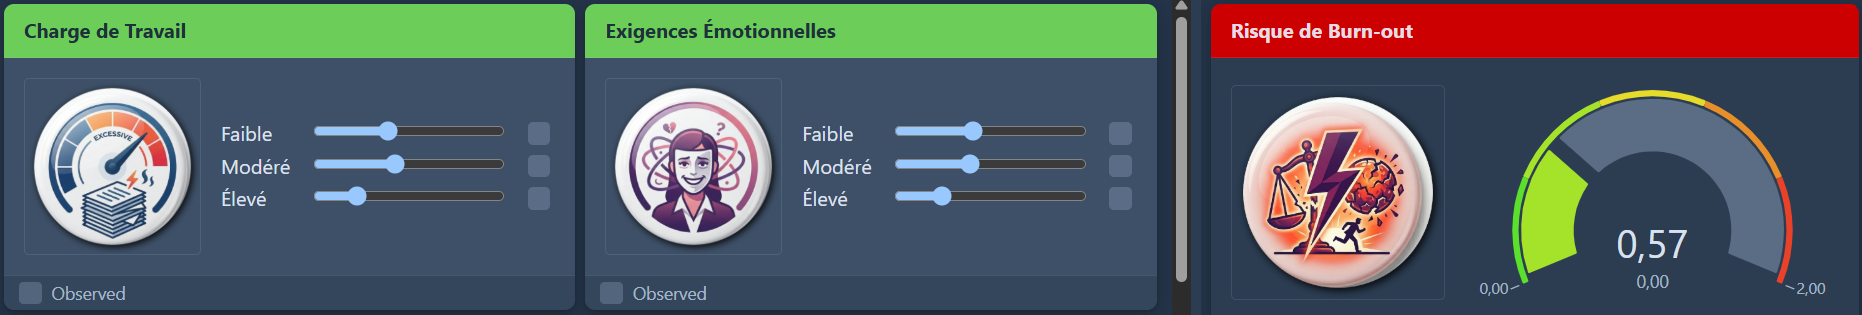
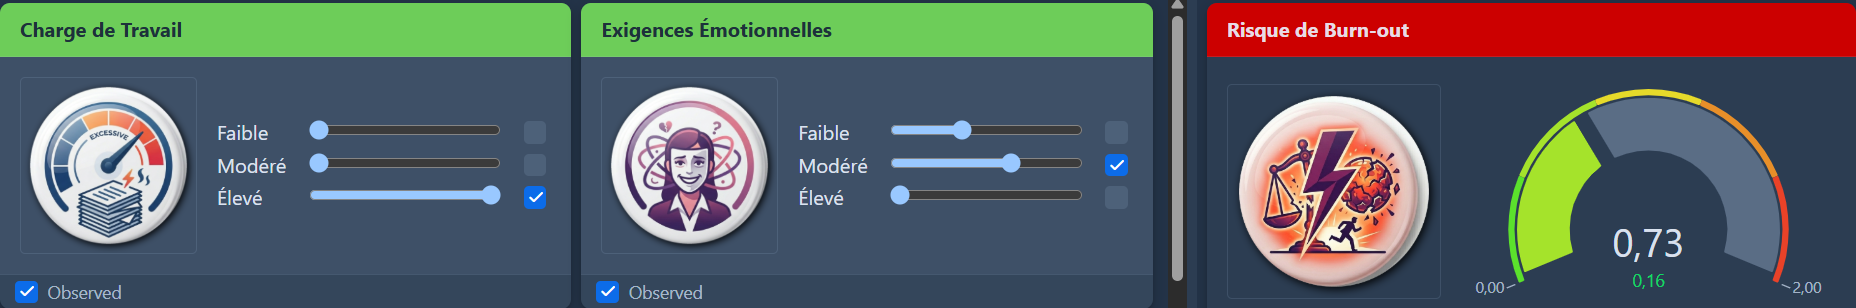
ws ref scen et méthode et footer

diff --git a/methode.html b/methode.html
@@ -100,11 +100,14 @@
       <p class="eyebrow">Méthode</p>
       <h2>Comment les modèles sont construits — et ce qu'on peut en attendre</h2>
       <p class="lede">
-        Un réseau bayésien est une représentation graphique des relations entre
-        variables&nbsp;: chaque nœud est un facteur, chaque flèche porte une
-        hypothèse d'influence et une intensité estimée. Cette page explique
-        comment ils sont construits, sur quoi ils reposent, et ce qu'ils
-        ne font pas.
+        Ce que vous observez au sein de votre organisation via vos indicateurs
+        et votre expérience résulte de l'interaction de nombreux facteurs.
+        Vos outils mesurent déjà certaines de ces variables plus ou moins indirectement,
+        mais la difficulté est de comprendre comment elles se combinent.
+        C'est ce qu'un réseau bayésien rend visible&nbsp;: chaque nœud est un
+        facteur, chaque flèche une hypothèse d'influence assortie d'une intensité
+        estimée. Cette page explique comment ces modèles sont construits, sur
+        quoi ils reposent, et ce qu'ils ne font pas.
       </p>
     </div>
   </section>
@@ -141,8 +144,7 @@
       <!--
         DAG pédagogique — redessiné en palette Noumensia à partir du modèle BayesiaLab.
         Structure identique au modèle d'origine (5 nœuds, 4 arêtes orientées).
-        À remplacer par un export BayesiaLab au besoin (même structure, autre rendu).
-      -->
+     -->
       <figure class="dag-fig" aria-label="Réseau bayésien pédagogique à 5 nœuds">
         <svg viewBox="0 0 580 135" xmlns="http://www.w3.org/2000/svg"
              style="width:100%;max-width:580px;display:block;margin:0 auto;height:auto"
@@ -155,7 +157,7 @@
             </marker>
           </defs>
 
-          <!-- Arêtes — dessinées avant les nœuds -->
+          <!-- Arêtes -->
           <!-- Charge de travail → Épuisement émotionnel -->
           <line x1="157" y1="25" x2="204" y2="60"
                 stroke="#7A1F2D" stroke-width="1.5" marker-end="url(#dag-arw)"/>
@@ -200,7 +202,7 @@
                 font-size="11" font-weight="500" fill="#F2EFEA">Absentéisme</text>
         </svg>
         <figcaption>
-          Extrait simplifié — modèle réel disponible sur la page
+          Extrait simplifié — graphe complet disponible dans la section
           <a href="modeles.html">Modèles</a>. Chaque flèche représente
           une hypothèse d'influence extraite de la littérature, pas une
           preuve de causalité.
@@ -223,10 +225,9 @@
           <p>
             Les variables et leurs relations sont posées à partir de la
             littérature scientifique — méta-analyses, cadres validés, données
-            publiques (DARES, COPSOQ). Elles sont ensuite discutées et ajustées
-            avec vos équipes RH, qui apportent une connaissance du terrain
-            qu'aucune donnée ne contient. La structure du modèle reflète ce
-            croisement.
+            publiques (DARES, INRS). Elles sont ensuite discutées et ajustées
+            avec vos équipes RH, qui apportent une autre forme de donnée : l'expertise 
+            et la connaissance du terrain. La structure du modèle reflète ce croisement.
           </p>
         </div>
         <div class="step">
@@ -234,13 +235,13 @@
           <h3>Calibration</h3>
           <p>
             Les paramètres du modèle sont d'abord estimés depuis la littérature,
-            puis affinés avec vos données. Celles-ci peuvent prendre des formes
-            variées&nbsp;: extraits SIRH, baromètres internes, enquêtes
-            psychosociales existantes, ou questionnaires passés directement aux
-            collaborateurs — chaque source alimente les paramètres du modèle de
-            façon tracée. Quand les données internes sont insuffisantes,
-            les paramètres issus de la littérature restent opérationnels là
-            où un modèle statistique classique serait bloqué.
+            puis affinés avec vos données disponibles. Celles-ci peuvent prendre 
+            des formes variées&nbsp;: extraits SIRH, baromètres internes, enquêtes
+            psychosociales existantes, ou questionnaires sur-mesures récoltés 
+            directement auprès des collaborateurs — chaque source alimente 
+            les paramètres du modèle de façon tracée. Quand les données internes 
+            sont insuffisantes, les paramètres issus de la littérature restent 
+            opérationnels là où un modèle statistique classique serait bloqué.
           </p>
         </div>
         <div class="step">
@@ -249,10 +250,10 @@
           <p>
             Une fois calibré, le modèle explore des scénarios&nbsp;:
             «&nbsp;si l'on agit sur X, qu'est-ce qui change sur Y&nbsp;?&nbsp;»
-            Les résultats sont exprimés en distributions de probabilités, avec
-            une estimation explicite de l'incertitude — pas un chiffre unique.
-            Vous recevez le modèle interactif et les résultats commentés,
-            conçus pour être présentés en CODIR ou avec le CSE.
+            Les résultats sont exprimés en distributions de probabilités, 
+            plutôt qu'en score unique et aggrégé, avec une estimation explicite 
+            de l'incertitude. Vous recevez le simulateur interactif et les 
+            résultats commentés, conçus pour être présentés en CODIR ou avec le CSE.
           </p>
         </div>
       </div>
@@ -272,22 +273,26 @@
   <section class="section section--alt">
     <div class="wrap">
       <p class="eyebrow">Positionnement</p>
-      <h2>Ce que cette approche fait — et ce qu'elle ne remplace pas</h2>
+      <h2>Ce que cette approche fait et ce qu'elle ne remplace pas</h2>
       <div class="prose">
         <p>
-        Un expert en RH apporte une lecture humaine, du recul et des grilles
-        d'analyse éprouvées. La modélisation ne vient pas concurrencer cette
-        expertise — elle lui donne un support structuré&nbsp;: tester des
-        hypothèses sur des données réelles, quantifier ce qui restait
-        qualitatif, rendre les arbitrages explicites et partageables.
+        Un expert en RH apporte une lecture humaine, du recul, de l'intuition 
+        et des grilles d'analyse éprouvées. La modélisation ne vient pas 
+        concurrencer cette expertise, au contraire, elle lui donne un support 
+        structuré&nbsp;: tester des hypothèses sur des données réelles, quantifier 
+        ce qui restait qualitatif et rendre les arbitrages explicites et partageables.
         </p>
         <p>
         Les enquêtes internes et les tableaux de bord mesurent déjà beaucoup.
-        Mais ils mesurent chaque variable séparément. Ce que la modélisation
-        apporte&nbsp;: relier ces variables dans un même système pour passer
-        du constat («&nbsp;l'absentéisme a augmenté&nbsp;») au diagnostic
-        («&nbsp;voici les facteurs qui y contribuent le plus, et dans quelle
-        proportion&nbsp;»). Et de là, simuler ce qu'activer tel levier pourrait probablement produire sur l'ensemble du système.
+        Mais ils mesurent chaque variable séparément. Ce que Noumensia permet
+        via la modélisation bayésienne c'est de relier ces variables dans un 
+        même système pour passer du constat («&nbsp;l'absentéisme a augmenté&nbsp;») 
+        au diagnostic («&nbsp;voici les facteurs qui y sont le plus associés, 
+        et dans quelles proportions&nbsp;»). Et de là, comparer plusieurs pistes 
+        sur une même base&nbsp;: le modèle montre comment se redéploient 
+        les probabilités quand on fixe la valeur d'un facteur — une distinction 
+        entre ce que les données montrent et ce qu'une action produirait, 
+        que chaque restitution explicite.
         </p>
       </div>
     </div>
@@ -311,21 +316,26 @@
         <li>
           <strong>Turnover volontaire</strong> —
           Rubenstein et al. (2018), méta-analyse des antécédents du turnover
-          volontaire&nbsp;; Mobley (1977), modèle de décision de
-          départ&nbsp;; Mitchell et al. (2001), théorie de l'encastrement
-          (<em>job embeddedness</em>)
-        </li>
+          volontaire, <em>Personnel Psychology</em>&nbsp;;
+          Mobley (1977), modèle de décision de départ&nbsp;;
+          Mitchell et al. (2001), théorie de l'encastrement
+         (<em>job embeddedness</em>), <em>Academy of Management Journal</em>
         <li>
           <strong>Absentéisme et présentéisme</strong> —
-          Miraglia &amp; Johns (2016), méta-analyse des déterminants du
-          présentéisme&nbsp;; Aronsson et al., mécanismes de substitution
-          absentéisme / présentéisme
+          Miraglia &amp; Johns (2016), méta-analyse des corrélats du
+          présentéisme et modèle dual-path,
+          <em>Journal of Occupational Health Psychology</em>&nbsp;;
+          Aronsson &amp; Gustafsson (2000), étude empirique fondatrice
+          sur le présentéisme-maladie,
+          <em>Journal of Epidemiology and Community Health</em>
         </li>
         <li>
           <strong>Risques psychosociaux</strong> —
-          COPSOQ III (Copenhagen Psychosocial Questionnaire), cadre
-          exigences-ressources&nbsp;; données DARES (enquêtes nationales
-          françaises sur les conditions de travail)
+          Burr et al. (2019), troisième version du Copenhagen Psychosocial
+          Questionnaire (COPSOQ III), cadre exigences-ressources&nbsp;;
+          Aronsson &amp; Gustafsson (2000), étude empirique fondatrice sur
+          le présentéisme-maladie&nbsp;; données DARES, enquête
+          <em>Conditions de travail</em> (2019)
         </li>
       </ul>
 
@@ -333,10 +343,7 @@
         <p>
           Chaque modèle publié sur la page <a href="modeles.html">Modèles</a>
           cite ses sources et rend visible la façon dont la littérature a été
-          traduite en structure de réseau. Pour la méthodologie bayésienne
-          elle-même, les fondements formels sont établis de longue date&nbsp;;
-          Koller &amp; Friedman, <em>Probabilistic Graphical Models</em>,
-          en constitue la référence standard.
+          traduite en structure de réseau. 
         </p>
       </div>
     </div>
@@ -352,46 +359,44 @@
           La construction et la calibration des modèles s'appuient sur
           <a href="https://www.bayesia.com" target="_blank" rel="noopener">BayesiaLab</a>,
           logiciel de référence pour les réseaux bayésiens, utilisé en
-          recherche et en industrie depuis plus de vingt ans. Noumensia
-          travaille en lien étroit avec Bayesia, son éditeur — ce qui permet
-          un accès privilégié aux développements méthodologiques récents.
+          recherche et en industrie depuis plus de vingt ans. 
         </p>
         <p>
-          Les modèles livrés sont rendus interactifs via WebSimulator — une
-          interface navigateur qui permet de fixer des variables, de simuler
-          des scénarios et d'observer comment les probabilités évoluent en
-          temps réel, sans aucune compétence technique requise.
+          Les modèles livrés sont rendus interactifs et accessibles sans
+          compétences techniques via WebSimulator — une interface navigateur 
+          qui permet aux décideurs de tester des scénarios concrets,
+          modifier une variable (charge de travail, autonomie, reconnaissance)
+          et observer en temps réel comment les probabilités évoluent sur les
+          indicateurs qui comptent. 
         </p>
       </div>
 
       <!--
         Captures WebSimulator — modèle burn-out (démonstration).
-        ws-reference.png  = état sans observation (risque = 0,57)
-        ws-scenario.png   = charge élevée + exigences modérées (risque = 0,73)
       -->
-      <div class="ws-compare" role="group" aria-label="Comparaison de scénarios WebSimulator">
+      <div class="ws-compare" role="group" aria-label="Comparaison de scénarios WebSimulator (données de démonstration)">
         <figure>
           <p class="ws-label">État de référence</p>
           <img src="images/ws/ws-reference.png"
-               alt="WebSimulator — sans observation fixée : risque de burn-out estimé à 0,57"
+               alt="WebSimulator — après un premier diagnostic : risque de burn-out estimé à 0,73"
                loading="lazy">
           <figcaption>
-            Sans observation fixée — risque de burn-out&nbsp;: <strong>0,57</strong>
+            Après un premier diagnostic — risque de burn-out&nbsp;: <strong>0,73</strong>
           </figcaption>
         </figure>
         <figure>
           <p class="ws-label">Scénario simulé</p>
           <img src="images/ws/ws-scenario.png"
-               alt="WebSimulator — charge de travail élevée et exigences émotionnelles modérées : risque de burn-out à 0,73"
+               alt="WebSimulator — diagnostic post-action : baisse du risque de burn-out à 0,62"
                loading="lazy">
           <figcaption>
-            Charge élevée + exigences modérées&nbsp;: risque <strong>0,73</strong>
+            Diagnostic post-action&nbsp;: risque <strong>0,62</strong>
           </figcaption>
         </figure>
       </div>
       <p class="ws-note">
-        Chaque modification d'une variable recalcule instantanément l'ensemble
-        du réseau — aucune compétence technique requise.
+        Chaque modification d'une variable recalcule instantanément les probabilités 
+        sur l'ensemble du réseau, sans compétence technique requise.
       </p>
 
     </div>
@@ -421,7 +426,7 @@
           que l'hypothèse «&nbsp;A influence B&nbsp;» a été jugée plausible
           d'après la littérature ou les données. Ce n'est pas une preuve de
           causalité au sens expérimental. La simulation de scénarios exploite
-          cette structure pour raisonner sur des leviers probables — pas pour
+          cette structure pour raisonner sur des leviers probables, pas pour
           prédire des effets garantis. Cette distinction fait partie de chaque
           restitution.
         </p>
@@ -438,7 +443,7 @@
 <!-- ============ FOOTER ============ -->
 <footer>
   <div class="wrap">
-    <span>© 2026 Noumensia — Modélisation probabiliste pour la fonction RH</span>
+    <span>© 2026 Noumensia — Modélisation bayésienne des phénomènes RH</span>
     <ul>
       <li><a href="modeles.html">Modèles</a></li>
       <li><a href="methode.html">Méthode</a></li>

diff --git a/a-propos.html b/a-propos.html
@@ -104,7 +104,7 @@
 <!-- ============ FOOTER ============ -->
 <footer>
   <div class="wrap">
-    <span>© 2026 Noumensia — Modélisation probabiliste pour la fonction RH</span>
+    <span>© 2026 Noumensia — Modélisation bayésienne des phénomènes RH</span>
     <ul>
       <li><a href="modeles.html">Modèles</a></li>
       <li><a href="methode.html">Méthode</a></li>

diff --git a/confidentialite.html b/confidentialite.html
@@ -138,7 +138,7 @@
 <!-- ============ FOOTER ============ -->
 <footer>
   <div class="wrap">
-    <span>© 2026 Noumensia — Modélisation probabiliste pour la fonction RH</span>
+    <span>© 2026 Noumensia — Modélisation bayésienne des phénomènes RH</span>
     <ul>
       <li><a href="modeles.html">Modèles</a></li>
       <li><a href="methode.html">Méthode</a></li>

diff --git a/contact.html b/contact.html
@@ -281,7 +281,7 @@
 <!-- ============ FOOTER ============ -->
 <footer>
   <div class="wrap">
-    <span>© 2026 Noumensia — Modélisation probabiliste pour la fonction RH</span>
+    <span>© 2026 Noumensia — Modélisation bayésienne des phénomènes RH</span>
     <ul>
       <li><a href="modeles.html">Modèles</a></li>
       <li><a href="methode.html">Méthode</a></li>

diff --git a/index.html b/index.html
@@ -233,7 +233,7 @@
 <!-- ============ FOOTER ============ -->
 <footer>
   <div class="wrap">
-    <span>© 2026 Noumensia — Modélisation probabiliste pour la fonction RH</span>
+    <span>© 2026 Noumensia — Modélisation bayésienne des phénomènes RH</span>
     <ul>
       <li><a href="modeles.html">Modèles</a></li>
       <li><a href="methode.html">Méthode</a></li>

diff --git a/mentions-legales.html b/mentions-legales.html
@@ -100,7 +100,7 @@
 <!-- ============ FOOTER ============ -->
 <footer>
   <div class="wrap">
-    <span>© 2026 Noumensia — Modélisation probabiliste pour la fonction RH</span>
+    <span>© 2026 Noumensia — Modélisation bayésienne des phénomènes RH</span>
     <ul>
       <li><a href="modeles.html">Modèles</a></li>
       <li><a href="methode.html">Méthode</a></li>

diff --git a/modeles.html b/modeles.html
@@ -118,7 +118,7 @@
 <!-- ============ FOOTER ============ -->
 <footer>
   <div class="wrap">
-    <span>© 2026 Noumensia — Modélisation probabiliste pour la fonction RH</span>
+    <span>© 2026 Noumensia — Modélisation bayésienne des phénomènes RH</span>
     <ul>
       <li><a href="modeles.html">Modèles</a></li>
       <li><a href="methode.html">Méthode</a></li>